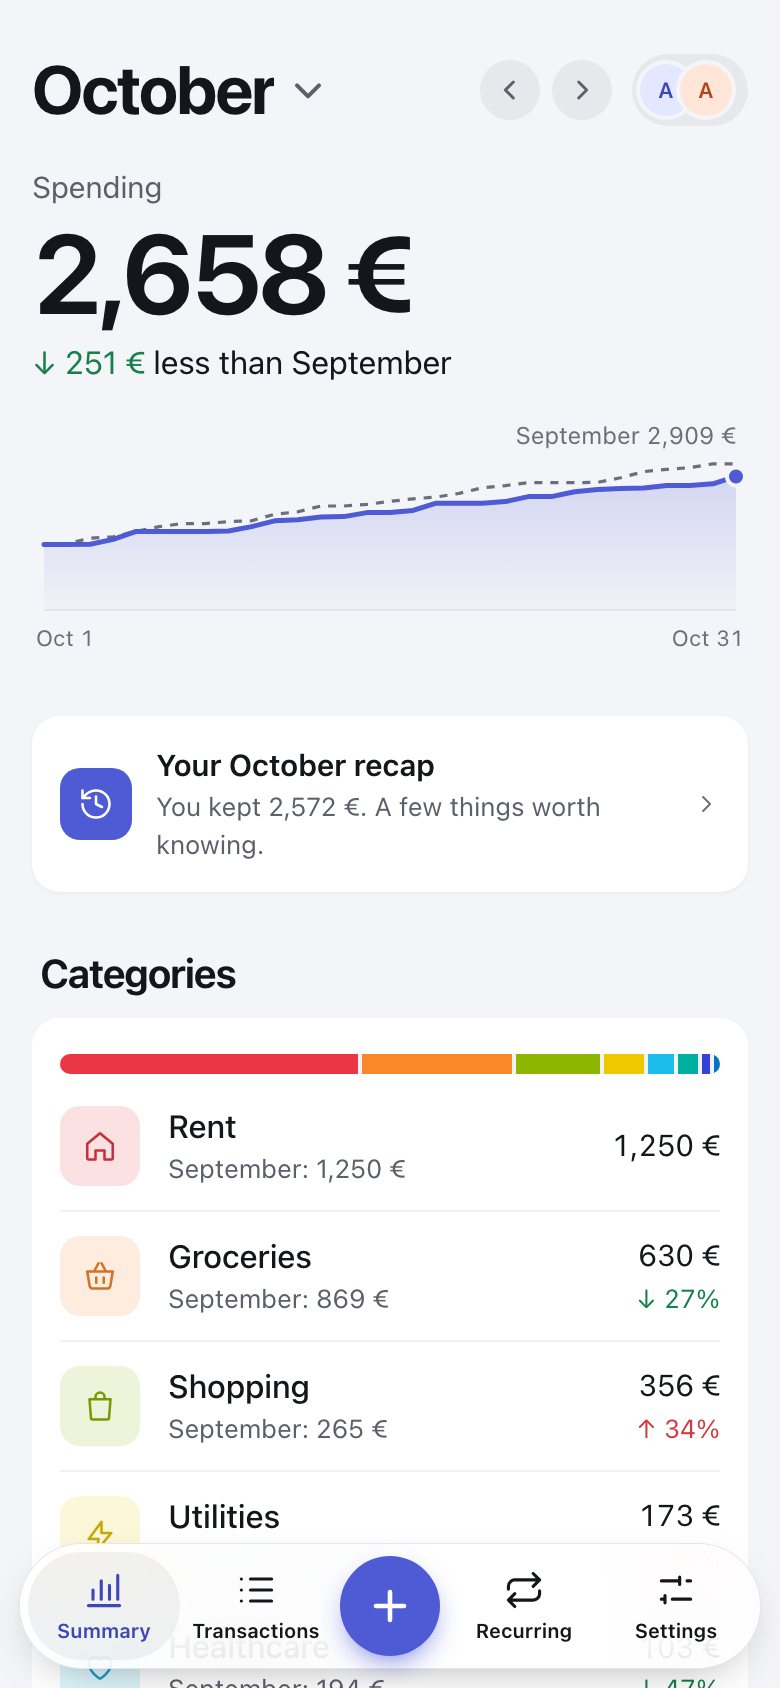
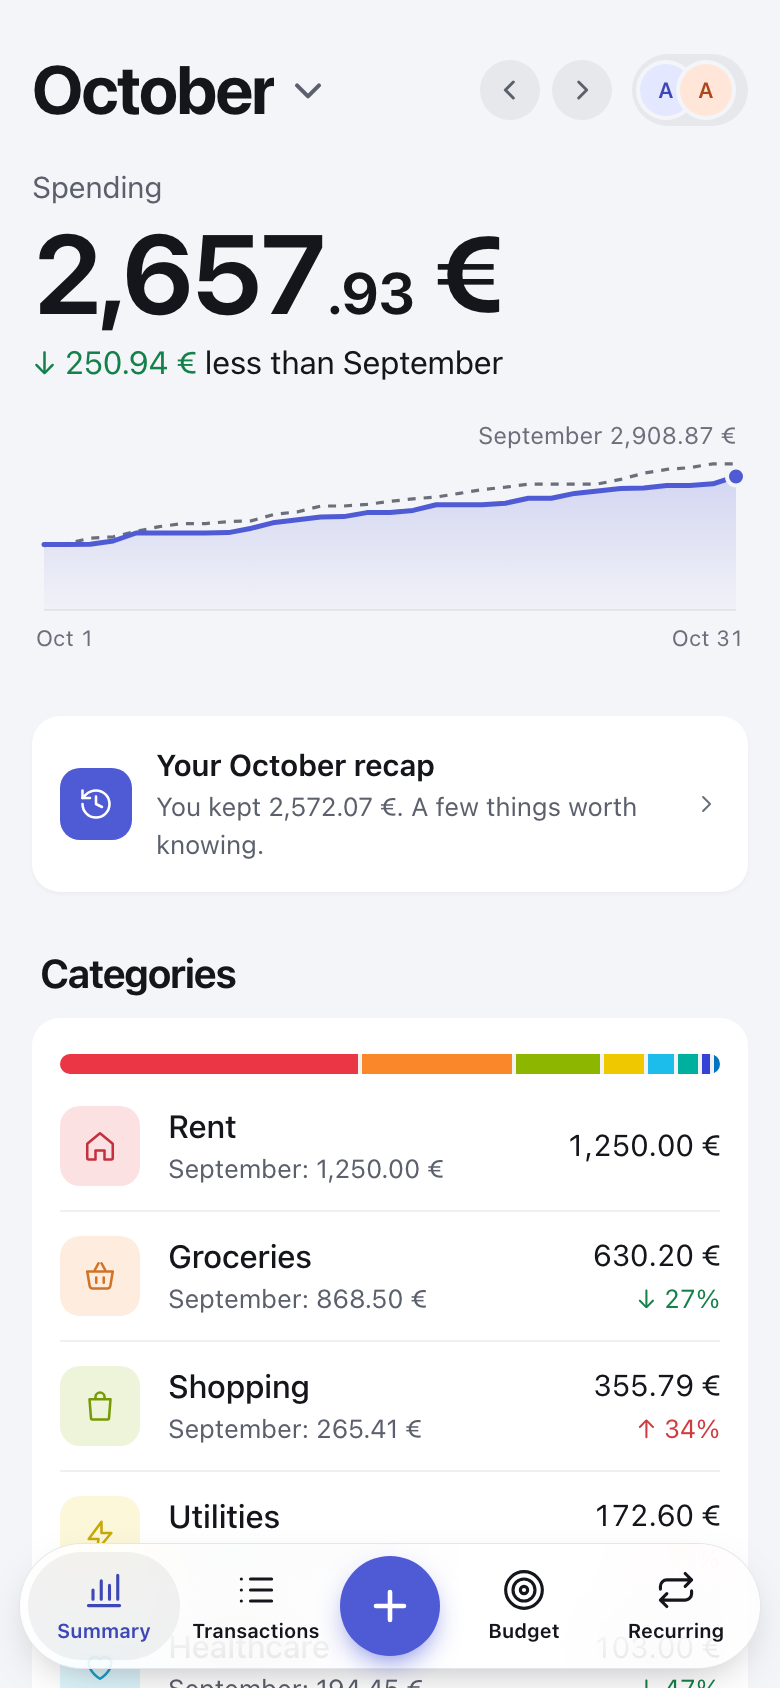
README: Budget in Features, new screenshots and poster, and Budget in the film
The screenshots and the film show today's Wally: real amounts, Budget in the
sidebar and the tab bar, and Appearance on the rail. The screenshot script now
collapses the sidebar itself, as the shots always had it.

The film gains a Budget scene after Recurring: "Set a limit, and see what's
left as you spend. Bills still to come are already counted in." What's left is
ringed, the bar draws itself, then the bills still due on the bar and its key.
It runs 73.6 s; the poster is taken at the same point of the end card.

diff --git a/scripts/explainer/web/scenes.js b/scripts/explainer/web/scenes.js
@@ -9,8 +9,8 @@
  *
  * What's on the screens is the real app in its light theme, filmed from the
  * demo household by capture_app.py: the Summary, Month in review, searches as
- * they're typed, Recurring, the person switcher, and the phone's Add sheet
- * key by key.
+ * they're typed, Recurring, Budget, the person switcher, and the phone's Add
+ * sheet key by key.
  */
 (function () {
   const A = window.Toolkit;
@@ -536,7 +536,52 @@
   };
 
   /* ------------------------------------------------------------------ *
-   *  6. household — everyone's own view; shared costs, three ways
+   *  6. budget — a limit, what's left of it, the bills still to come counted in
+   * ------------------------------------------------------------------ */
+  SCENES.budget = (cam, api) => {
+    const s1 = api.segStart("bud1"), limitAt = api.on("bud1", "limit"), leftAt = api.on("bud1", "left"), spendAt = api.on("bud1", "spend");
+    const s2 = api.segStart("bud2"), billsAt = api.on("bud2", "bills"), countedAt = api.on("bud2", "counted");
+    const B = api.data.shots.budget.box;
+    const h1 = headline(cam, 960, 96, "See what's left.", "headline md");
+    h1.w[2].classList.add("acc");
+    const h2 = headline(cam, 960, 96, "Bills to come, counted in.", "headline md");
+    h2.w[3].classList.add("acc"); h2.w[4].classList.add("acc");
+    const br = browser(cam, 960, 640, 1180);
+    br.shot("/app/budget.png");
+    br.scroll(0);
+    // the lead's bar draws itself as you spend: a white veil over it (and today's mark) slides away
+    const veil = el("div", "abs", br.page);
+    Object.assign(veil.style, { left: B.bar[0] - 2 + "px", top: B.bar[1] - 7 + "px", width: B.bar[2] + 4 + "px", height: B.bar[3] + 14 + "px", background: "#fff" });
+    // what is left: the big amount, as wide as its digits (the box is the card's whole row)
+    const rLeft = ring(br.page, [B.big[0] - 2, B.big[1] + 6, 186, B.big[3] - 10], 6, 12);
+    const rLim = ring(br.page, B.lim, 6, 10);
+    const rDue = ring(br.page, B.due, 8, 10);
+    const rKey = ring(br.page, B.keydue, 6, 10);
+    api.cue("pop", limitAt, 0.5);
+    api.cue("ding", leftAt + 0.05, 0.6);
+    api.cue("draw", spendAt - 0.1, 0.8);
+    api.cue("tick", billsAt, 0.6);
+    api.cue("coin", countedAt + 0.05, 0.6);
+
+    return (t) => {
+      kin(h1.w, t, s1 - 0.3, 0.05, 0.55, s2 - 0.35);
+      kin(h2.w, t, s2 - 0.05, 0.05, 0.55);
+      const pin = outQuint(ramp(t, 0, 0.8));
+      br.node.style.transform = `translateY(${((1 - pin) * 70).toFixed(2)}px)`;
+      const vp = outCubic(ramp(t, spendAt - 0.15, spendAt + 0.75));
+      veil.style.left = (B.bar[0] - 2 + vp * (B.bar[2] + 4)).toFixed(2) + "px";
+      veil.style.width = ((B.bar[2] + 4) * (1 - vp)).toFixed(2) + "px";
+      veil.style.visibility = vp >= 1 ? "hidden" : "visible";
+      rLim.set(t, limitAt - 0.05, leftAt - 0.05);
+      rLeft.set(t, leftAt, s2 - 0.2);
+      rDue.set(t, billsAt, api.dur);
+      rKey.set(t, billsAt + 0.12, api.dur);
+      camera(cam, t, [[0, 1, 0, 0], [limitAt - 0.4, 1.15, -30, 70, 1.0], [billsAt - 0.3, 1.2, 40, 60, 0.9]], 0.4);
+    };
+  };
+
+  /* ------------------------------------------------------------------ *
+   *  7. household — everyone's own view; shared costs, three ways
    * ------------------------------------------------------------------ */
   SCENES.household = (cam, api) => {
     const s1 = api.segStart("home1"), evAt = api.on("home1", "everyone"), ownAt = api.on("home1", "own");
@@ -638,7 +683,7 @@
   };
 
   /* ------------------------------------------------------------------ *
-   *  7. phone — installs like an app; speaks thirteen languages
+   *  8. phone — installs like an app; speaks thirteen languages
    * ------------------------------------------------------------------ */
   SCENES.phone = (cam, api) => {
     const s1 = api.segStart("phone1"), installAt = api.on("phone1", "installs");
@@ -749,7 +794,7 @@
   };
 
   /* ------------------------------------------------------------------ *
-   *  8. private — end-to-end encrypted; the server sees noise
+   *  9. private — end-to-end encrypted; the server sees noise
    * ------------------------------------------------------------------ */
   SCENES.private = (cam, api) => {
     const s1 = api.segStart("priv1"), pwAt = api.on("priv1", "password"), encAt = api.on("priv1", "encrypted");
@@ -842,7 +887,7 @@
   };
 
   /* ------------------------------------------------------------------ *
-   *  9. selfhost — free, open source, yours; one Docker command
+   *  10. selfhost — free, open source, yours; one Docker command
    * ------------------------------------------------------------------ */
   SCENES.selfhost = (cam, api) => {
     const s1 = api.segStart("self1"), freeAt = api.on("self1", "free"), openAt = api.on("self1", "open"), hostAt = api.on("self1", "host");
@@ -909,7 +954,7 @@
   };
 
   /* ------------------------------------------------------------------ *
-   *  10. outro — the wallet, the name, the promise
+   *  11. outro — the wallet, the name, the promise
    * ------------------------------------------------------------------ */
   SCENES.outro = (cam, api) => {
     const s2 = api.segStart("outro2"), knowAt = api.on("outro2", "know"), moneyAt = api.on("outro2", "money"), goesAt = api.on("outro2", "goes");

diff --git a/scripts/explainer/capture_app.py b/scripts/explainer/capture_app.py
@@ -15,6 +15,7 @@ Shots (desktop 1440x900 at 2x, phone 390x844 at 3x)
   review.png          Month in review for last month, the whole page
   search/NN.png       typing searches into Transactions: a shop, a tag, a person, an amount
   rec.png, rec_spotify.png   Recurring, then Spotify picked (its price went up)
+  budget.png          Budget this month: what's left of the limit for everything, then each limit
   home_all/_1/_2.png  the Summary for Everyone, then each person
   m_add/NN.png        the phone's Add sheet: the keypad, the name, a split, shared, a tag, Save
   split_*.png         a shared IKEA bill in the desktop Add sheet: evenly, by income, by hand
@@ -155,6 +156,22 @@ def recurring(b, base):
     META["rec"] = {"box": boxes(p, {"panel": "#rec-insp", "pcard": "#rec-insp .rec-pcard", "list": ".rec-list",
                                     "sum": ".rec-sum"}),
                    "spotify": [round(box_row["x"]), round(box_row["y"]), round(box_row["width"]), round(box_row["height"])]}
+    ctx.close()
+
+
+def budget(b, base):
+    """Budget, this month (the only month with bills still to come). Filmed before the Add sequence
+    saves its expense, so the figures are the demo's own."""
+    ctx = ctx_for(b, DESK, 2)
+    p = ctx.new_page()
+    p.goto(f"{base}/budget")
+    settle(p, 800)
+    shot(p, os.path.join(OUT, "budget.png"))
+    META["budget"] = {"box": boxes(p, {"lead": ".bg-sum", "big": ".bg-sum .rec-big", "bar": ".bg-lead .bg-bar",
+                                       "due": ".bg-lead .bg-bar i.due", "key": ".bg-key", "keydue": ".bg-key span:nth-child(2)",
+                                       "lim": ".bg-lim", "list": ".bg-list"}),
+                      "text": p.evaluate("""() => ({ big: document.querySelector('.bg-sum .rec-big')?.textContent.trim(),
+                          eye: document.querySelector('.bg-sum .rec-eye')?.textContent.trim() })""")}
     ctx.close()
 
 
@@ -343,7 +360,7 @@ def main():
     meta_path = os.path.join(OUT, "shots.json")
     if os.path.exists(meta_path):
         META.update(json.load(open(meta_path)))
-    jobs = {"summary": summary, "search": search, "recurring": recurring, "household": household,
+    jobs = {"summary": summary, "search": search, "recurring": recurring, "budget": budget, "household": household,
             "phone_add": phone_add, "phone_summary": phone_summary, "household_split": household_split}
     prep_demo(base)
     with sync_playwright() as pw:

diff --git a/scripts/explainer/narration.py b/scripts/explainer/narration.py
@@ -45,6 +45,7 @@ GAP_EXTRA = {
     "sum1": 0.9,           # the split, shared, tagged receipt is saved before the cut
     "sum2": 0.3,           # the recap card opens
     "rec2": 0.3,           # the price rise lights up
+    "bud2": 0.25,          # what's left has been ringed
     "home2": 0.2,
     "phone2": 0.2,
     "priv2": 0.35,         # the receipt has scrambled
@@ -79,6 +80,10 @@ LINES = [
      {"rent": "Rent", "subs": "subscriptions", "salaries": "salaries", "day": "their day"}),
     ("rec2", "recurring", "And when a price goes up, you'll see it.",
      {"price": "price", "see": "see it"}),
+    ("bud1", "budget", "Set a limit, and see what's left as you spend.",
+     {"limit": "limit", "left": "what's left", "spend": "spend"}),
+    ("bud2", "budget", "Bills still to come are already counted in.",
+     {"bills": "Bills", "come": "to come", "counted": "counted"}),
     ("home1", "household", "Everyone gets their own view.",
      {"everyone": "Everyone", "own": "own view"}),
     ("home2", "household", "Shared costs split evenly, by income, or by hand.",

diff --git a/utils/take_screenshots.py b/utils/take_screenshots.py
@@ -34,7 +34,8 @@ HIDE_DEMO_BAR = """document.addEventListener("DOMContentLoaded", () => {
 
 def shoot(browser, base, path, out, theme, viewport):
     context = browser.new_context(viewport=viewport, color_scheme=theme, device_scale_factor=2)
-    context.add_init_script(f"localStorage.setItem('wally.theme', '{theme}'); localStorage.setItem('wally.person', '1');")
+    # The sidebar collapsed to its rail on a computer: more room for the page itself
+    context.add_init_script(f"localStorage.setItem('wally.theme', '{theme}'); localStorage.setItem('wally.person', '1'); localStorage.setItem('wally.side', 'rail');")
     context.add_init_script(HIDE_DEMO_BAR)
     page = context.new_page()
     page.goto(base + path, wait_until="networkidle")

diff --git a/scripts/explainer/README.md b/scripts/explainer/README.md
@@ -1,6 +1,6 @@
 # Wally film
 
-The Wally promo: a **~67-second, 1920×1080, 60 fps MP4** with a neural
+The Wally promo: a **~74-second, 1920×1080, 60 fps MP4** with a neural
 voice-over, an original synthesized score, and sound design cued from the
 picture.
 
@@ -22,7 +22,7 @@ Design rules the film follows, so any future edit stays on-model:
   accent, money green and red; the logo's wallet (tan leather, green notes)
   for warmth. Never the dark theme.
 - **Show the real app.** No mock-ups of Wally's screens: the Summary, Month in
-  review, searches as they're typed, Recurring, the person menu's three views,
+  review, searches as they're typed, Recurring, Budget, the person menu's three views,
   the phone's Add sheet key by key (then split, shared and tagged), and a shared
   bill split three ways in the desktop Add sheet are all real (`capture_app.py`).
   When a claim is said, the app does it on screen; a ring marks what changed.
@@ -83,7 +83,7 @@ Stills while iterating on the visuals:
 
 ```sh
 .venv/bin/python capture.py --preview 2.6,12.0,30.5    # -> preview/*.png
-.venv/bin/python capture.py --poster 66.5 --poster-at 960,625 --poster-shade "rgba(24, 26, 42, 0.1)" \
+.venv/bin/python capture.py --poster 73.0 --poster-at 960,625 --poster-shade "rgba(24, 26, 42, 0.1)" \
     --poster-out ../../assets/video-poster.png          # the README thumbnail: the real app, shaded, with the play button
 ```
 
@@ -93,7 +93,7 @@ Stills while iterating on the visuals:
 |---|---|
 | `narration.py` | the script + pacing. **Start here** to change the wording. |
 | `web/engine.js` | the renderer: `render(t)`, scene layers + cameras, the ledger bar, the dot grid, rolling digits, awaited image swaps, the cue registry |
-| `web/scenes.js` | the ten scenes: open, add, summary, search, recurring, household, phone, private, selfhost, outro |
+| `web/scenes.js` | the eleven scenes: open, add, summary, search, recurring, budget, household, phone, private, selfhost, outro |
 | `web/style.css` | palette, type, browser / phone / terminal frames, the receipt paper |
 | `capture.py` | http server + Playwright frame loop (`--preview`, `--poster`, `--cues`) |
 | `capture_app.py` | films the real app from a demo |

diff --git a/README.md b/README.md
@@ -12,9 +12,9 @@
 </p>
 
 <p align="center">
-  <img src="assets/dashboards-light.png?version=2.3" alt="Wally's Summary on a computer" width="73%" />
+  <img src="assets/dashboards-light.png?version=2.5" alt="Wally's Summary on a computer" width="73%" />
   &nbsp;
-  <img src="assets/dashboards-light-mobile.png?version=2.3" alt="Wally's Summary on a phone" width="21%" />
+  <img src="assets/dashboards-light-mobile.png?version=2.5" alt="Wally's Summary on a phone" width="21%" />
 </p>
 
 ## Features
@@ -22,6 +22,7 @@
 - **Summary**: this month against last month, where the money went, what you kept each month and what's coming. Every number opens the transactions behind it.
 - **Transactions**: search every month, filter and sort, a calendar, and bulk changes with Undo.
 - **Recurring**: rent, subscriptions and salaries, added on their day. Price rises stand out.
+- **Budget**: a limit for the month, a category or the year, and what's left of it as you spend, with the bills still to come counted in.
 - **A household**: each person's own spending, and shared costs split evenly, by income or by hand.
 - **Month in review**: a recap of last month, ready on the 1st.
 - **End-to-end encryption**, on by default with a password: whoever runs the server can't read your data.
@@ -76,7 +77,7 @@ Then open [http://localhost](http://localhost).
 
 <p align="center">
   <a href="https://pol.alzina.dev/videos/wally.mp4">
-    <img src="assets/video-poster.png?version=2.3"
-      alt="Watch the Wally video — a one-minute tour: adding on a phone, the Summary, search, recurring, a shared household, encryption and self-hosting">
+    <img src="assets/video-poster.png?version=2.5"
+      alt="Watch the Wally video — a one-minute tour: adding on a phone, the Summary, search, recurring, a budget, a shared household, encryption and self-hosting">
   </a>
 </p>
